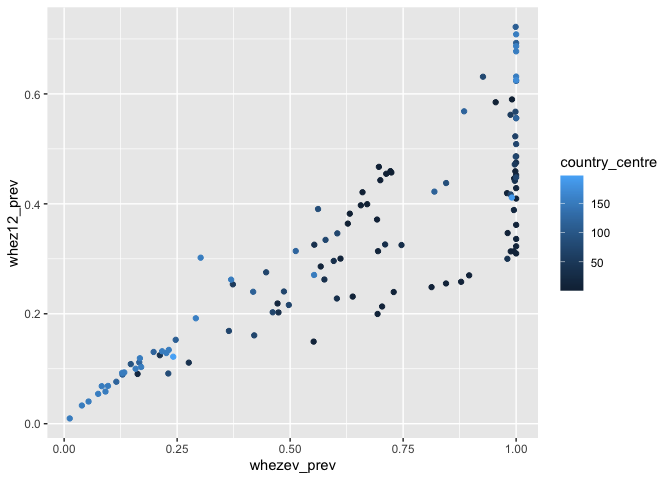
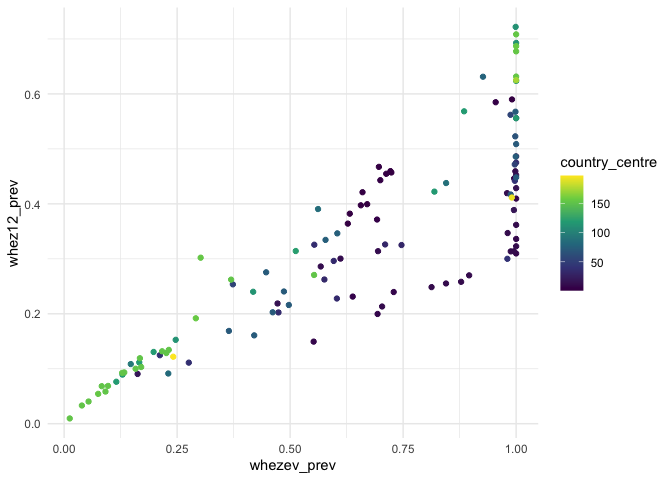
improve visualization with more distinctive color scale

diff --git a/analysis-between-country.md b/analysis-between-country.md
@@ -71,7 +71,9 @@ ggplot(isaac_country_centre1, aes(x = whezev_prev, y = whez12_prev)) +
 
 ``` r
 ggplot(isaac_country_centre1,aes(x=whezev_prev, y = whez12_prev,color=country_centre))+
-  geom_point()
+  geom_point()+
+  scale_color_viridis_c(option = "viridis") +
+  theme_minimal()
 ```
 
 ![](analysis-between-country_files/figure-gfm/unnamed-chunk-4-1.png)<!-- -->
@@ -115,6 +117,15 @@ ggplot(isaac_country_centre2, aes(x = whezev_prev, y = awake12_prev)) +
 
 ![](analysis-between-country_files/figure-gfm/unnamed-chunk-5-1.png)<!-- -->
 
+``` r
+ggplot(isaac_country_centre2,aes(x=whezev_prev, y = awake12_prev,color=country_centre))+
+  geom_point()+
+  scale_color_viridis_c(option = "viridis") +
+  theme_minimal()
+```
+
+![](analysis-between-country_files/figure-gfm/unnamed-chunk-6-1.png)<!-- -->
+
 ### plot3 x=whezev, y=exwhez12 (high:whezev_prev \>= 0.4 & exwhez12_prev \>= 0.1)
 
 ``` r
@@ -152,7 +163,16 @@ ggplot(isaac_country_centre3, aes(x = whezev_prev, y = exwhez12_prev)) +
   theme_minimal()
 ```
 
-![](analysis-between-country_files/figure-gfm/unnamed-chunk-6-1.png)<!-- -->
+![](analysis-between-country_files/figure-gfm/unnamed-chunk-7-1.png)<!-- -->
+
+``` r
+ggplot(isaac_country_centre3,aes(x=whezev_prev, y = exwhez12_prev,color=country_centre))+
+  geom_point()+
+  scale_color_viridis_c(option = "viridis") +
+  theme_minimal()
+```
+
+![](analysis-between-country_files/figure-gfm/unnamed-chunk-8-1.png)<!-- -->
 
 ### plot4 x=whez12, y=awake12 (define awake12_prev high is \> 2, high: whez12_prev \>= 0.4 & awake12_prev \>= 0.1 )
 
@@ -191,7 +211,16 @@ ggplot(isaac_country_centre4, aes(x = whez12_prev, y = awake12_prev)) +
   theme_minimal()
 ```
 
-![](analysis-between-country_files/figure-gfm/unnamed-chunk-7-1.png)<!-- -->
+![](analysis-between-country_files/figure-gfm/unnamed-chunk-9-1.png)<!-- -->
+
+``` r
+ggplot(isaac_country_centre4,aes(x=whez12_prev, y = awake12_prev,color=country_centre))+
+  geom_point()+
+  scale_color_viridis_c(option = "viridis") +
+  theme_minimal()
+```
+
+![](analysis-between-country_files/figure-gfm/unnamed-chunk-10-1.png)<!-- -->
 
 ### plot5 x=whez12, y=exwhez12 (high: whez12_prev \>=0.4 and exwhez12_prev\>=0.1)
 
@@ -230,9 +259,18 @@ ggplot(isaac_country_centre5, aes(x = whez12_prev, y = exwhez12_prev)) +
   theme_minimal()
 ```
 
-![](analysis-between-country_files/figure-gfm/unnamed-chunk-8-1.png)<!-- -->
+![](analysis-between-country_files/figure-gfm/unnamed-chunk-11-1.png)<!-- -->
 
-### plot6 x=awake12 y=exwhez12 (define awake12_prev high is \> 2, high: awake12_prev \>= 0.1 & exwhez12 \>=0.1 )
+``` r
+ggplot(isaac_country_centre5,aes(x=whez12_prev, y = exwhez12_prev,color=country_centre))+
+  geom_point()+
+  scale_color_viridis_c(option = "viridis") +
+  theme_minimal()
+```
+
+![](analysis-between-country_files/figure-gfm/unnamed-chunk-12-1.png)<!-- -->
+
+### plot6 x=awake12, y=exwhez12 (define awake12_prev high is \> 2, high: awake12_prev \>= 0.1 & exwhez12 \>=0.1 )
 
 ``` r
 isaac_country_centre6=
@@ -269,4 +307,48 @@ ggplot(isaac_country_centre6, aes(x = awake12_prev, y = exwhez12_prev)) +
   theme_minimal()
 ```
 
-![](analysis-between-country_files/figure-gfm/unnamed-chunk-9-1.png)<!-- -->
+![](analysis-between-country_files/figure-gfm/unnamed-chunk-13-1.png)<!-- -->
+
+``` r
+ggplot(isaac_country_centre6,aes(x=awake12_prev, y = exwhez12_prev,color=country_centre))+
+  geom_point()+
+  scale_color_viridis_c(option = "viridis") +
+  theme_minimal()
+```
+
+![](analysis-between-country_files/figure-gfm/unnamed-chunk-14-1.png)<!-- -->
+
+### country centre with whezev_prev\>=0.4,whez12_prev\>=0.4,exwhez12_prev\>=0.1,awake12_prev\>=0.1
+
+``` r
+isaac_high_country=
+  isaac|>
+  filter(whezev!=9,whez12!=9,exwhez12!=9,awake12!=9)|>
+  group_by(country_centre) |>
+  summarize(
+    whezev_prev = mean(whezev==1, na.rm = TRUE),
+    whez12_prev = mean(whez12==1, na.rm = TRUE),
+    exwhez12_prev = mean(exwhez12 == 1, na.rm = TRUE),
+    awake12_prev = mean(awake12 > 2  , na.rm = TRUE),
+    n = n(),
+    .groups = "drop"
+  )|>
+  filter(whezev_prev>=0.4,whez12_prev>=0.4,exwhez12_prev>=0.1,awake12_prev>=0.1)
+
+isaac_high_country
+```
+
+    ## # A tibble: 41 × 6
+    ##    country_centre whezev_prev whez12_prev exwhez12_prev awake12_prev     n
+    ##             <dbl>       <dbl>       <dbl>         <dbl>        <dbl> <int>
+    ##  1           1.02       0.998       0.975         0.612        0.129   959
+    ##  2           3.03       0.801       0.693         0.471        0.216   473
+    ##  3           4.02       0.952       0.942         0.464        0.118   703
+    ##  4           7.02       0.707       0.548         0.300        0.119   604
+    ##  5           7.06       1           0.995         0.471        0.168   191
+    ##  6           8.03       1           0.987         0.496        0.127   228
+    ##  7           8.1        1           1             0.460        0.205   161
+    ##  8          10.0        0.975       0.938         0.15         0.125    80
+    ##  9          10.1        1           1             0.239        0.130    46
+    ## 10          11.0        0.681       0.543         0.265        0.127   457
+    ## # ℹ 31 more rows
